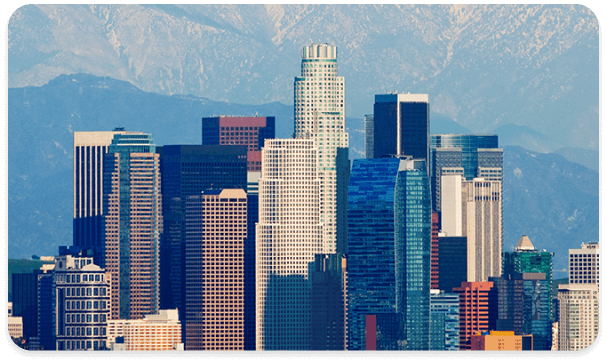
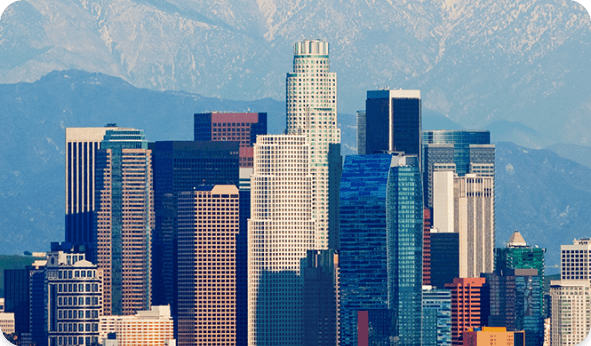
feat: Adicionar seção footer

diff --git a/src/main.css b/src/main.css
@@ -88,7 +88,7 @@ body {
     width: 24vw;
 }
 
-section {
+section, footer {
     padding: 0vw 4vw;
 }
 
@@ -150,9 +150,11 @@ section {
 
 .photos {
     width: 100%;
+    height: 50vw;
     display: flex;
     justify-content: space-between;
     padding-top: 3.333vw;
+    padding-bottom: 3.333vw;
 }
 
 .photos__main {
@@ -186,8 +188,15 @@ section {
     box-shadow: 0px 2px 10px rgba(0, 0, 0, 0.2);
 }
 
+.photos__photo-main {
+    height: 83%;
+}
+
 .photos__aside {
     width: 46.5%;
+    display: flex;
+    flex-direction: column;
+    justify-content: space-between;
 }
 
 .photos__aside .photos__photo {
@@ -235,6 +244,12 @@ section {
 .download__app {
     cursor: pointer;
     height: 2.5vw;
+    transition: transform 0.3s ease;
+}
+
+.download__app:hover {
+    transform: scale(1.08);
+    transition: transform 0.3s ease;
 }
 
 .download__app:first-child {
@@ -267,4 +282,199 @@ section {
     border: 1px solid #7D26C9;
     border-radius: 1.667vw;
     background-color: #DFDCD5;
+    transition: transform 0.3s ease;
+}
+
+.product__card:hover {
+    transform: scale(1.05);
+    transition: transform 0.3s ease;
+}
+
+.plan__container {
+    display: flex;
+    justify-content: space-between;
+    padding-top: 1.667vw;
+    padding-bottom: 3.333vw;
+}
+
+.plan__card {
+    width: 23vw;
+    padding: 1.25vw;
+    display: flex;
+    flex-direction: column;
+    justify-content: center;
+    align-items: center;
+    cursor: pointer;
+    border: 1.5px solid #DFBBFE;
+    border-radius: 0.833vw;
+    background-color: #FFF;
+    box-shadow: 0px 2px 10px rgba(0, 0, 0, 0.2);
+    transition: transform 0.3s ease;
+}
+
+.plan__card:hover {
+    transform: scale(1.05);
+    transition: transform 0.3s ease;
+}
+
+.plan__card-title {
+    font-size: 1.2vw;
+    align-self: flex-start;
+    margin-bottom: 0.417vw;
+}
+
+.plan__card-phase {
+    font-size: 1.1vw;
+    margin-bottom: 1.25vw;
+}
+
+.plan__card-button {
+    cursor: pointer;
+    padding: 0.7vw 2vw;
+    font-size: 0.84vw;
+    font-weight: 600;
+    border: none;
+    border-radius: 0.208vw;
+    background-color: #DFBBFE;
+}
+
+footer {
+    background-color: #2D2D2D;
+}
+
+.validate {
+    display: flex;
+    align-items: center;
+    justify-content: space-between;
+
+    padding-top:  3.333vw;
+    padding-bottom: 3.333vw;
+}
+
+.validate__illustration {
+    width: 20vw;
+    height: 18vw;
+}
+
+.validate__content {
+    width: 60%;
+    padding: 1.25vw;
+    border-radius: 1.25vw;
+    background-color: #EAE8E4;
+}
+
+.validate__title {
+    font-size: 2.083vw;
+    color: #2D2D2D;
+}
+
+.validate__text:first-child {
+    margin-top: 0.417vw;
+}
+
+.validate__text:last-child {
+    margin-top: 1.25vw;
+    margin-bottom: 1.667vw;
+}
+
+.validate__text {
+    color: #2D2D2D;
+    font-size: 1.042vw;
+}
+
+.validate__input-group {
+    display: flex;
+    justify-content: space-between;
+    gap: 0.833vw;
+    flex-wrap: wrap;
+    margin-bottom: 1.667vw;
+}
+
+.validate__input {
+    width: 25vw;
+    padding: 0.833vw;
+    outline: none;
+    border: none;
+    border-radius: 0.417vw;
+    background-color: #FFF;
+    font-size: 1vw;
+}
+
+.validate__input:placeholder {
+    font-size: 1vw;
+}
+
+.validate__security-check {
+    display: flex;
+    align-items: center;
+    justify-content: space-between;
+}
+
+.validate__security-text {
+    width: 30%;
+    color: #2D2D2D;
+    font-size: 1.25vw;
+    font-weight: 600;
+}
+
+.validate__math-operation {
+    width: 30%;
+    padding: 0.833vw 2.604vw;
+    border-radius: 0.417vw;
+    background-color: #DFDCD5;
+}
+
+.validate__math-input {
+    width: 40%;
+    color: #7D26C9;
+    font-weight: 600;
+    font-size: 1.042vw;
+    border: none;
+    outline: none;
+    background-color: transparent;
+    text-align: center;
+}
+
+.validate__math-input::placeholder {
+    color: #7D26C9;
+    font-size: 1.042vw;
+    font-weight: 600;
+}
+
+.validate__math-operator,
+.validate__math-equals {
+    font-weight: 600;
+}
+
+.validate__math-result {
+    width: 24%;
+    padding: 0.833vw;
+    outline: none;
+    border: none;
+    border-radius: 0.417vw;
+    background-color: #FFF;
+    font-size: 1vw;
+}
+
+.validate__math-result:placeholder {
+    font-size: 1vw;
+}
+
+.validate__button {
+    width: 100%;
+    display: flex;
+    align-items: center;
+    justify-content: center;
+    margin-top: 1.667vw;
+}
+
+.validate__button-send {
+    width: 15.5vw;
+    cursor: pointer;
+    font-weight: 600;
+    font-size: 0.84vw;
+    padding: 0.833vw 2.604vw;
+    border: none;
+    border-radius: 0.208vw;
+    background-color: #DFBBFE;
 }

diff --git a/src/index.html b/src/index.html
@@ -41,8 +41,11 @@
 
     <section class="photos">
         <main class="photos__main">
-            <h2 class="photos__title">Lorem ipsum dolor sit amet consectetur</h2>
-            <p class="photos__description">Lorem ipsum dolor sit amet consectetur. Semper orci adipiscing faucibus sit scelerisque quis commodo</p>
+            <div>
+                <h2 class="photos__title">Lorem ipsum dolor sit amet consectetur</h2>
+                <p class="photos__description">Lorem ipsum dolor sit amet consectetur. Semper orci adipiscing faucibus sit scelerisque quis commodo</p>
+            
+            </div>
             <img class="photos__photo photos__photo-main" src="./assets/images/city_5.png" alt="Front photo of a city">
         </main>
         <aside class="photos__aside">
@@ -70,6 +73,47 @@
             <!-- Injetado dinâmicamente -->
         </div>
     </section>
+
+    <section class="plan">
+        <div class="plan__container">
+            <!-- Injetado dinâmicamente -->
+        </div>
+    </section>
+
+    <footer>
+        <div class="validate">
+            <img class="validate__illustration" src="./assets/images/ilustration.png" alt="Ilustration">
+            <div class="validate__content">
+                <h1 class="validate__title">Lorem ipsum dolor sit amet consectetur</h1>
+                <div class="validate__description">
+                    <p class="validate__text">Lorem ipsum dolor sit amet consectetur. Semper orci adipiscing faucibus sit scelerisque</p>
+                    <p class="validate__text">Lorem ipsum dolor sit amet consectetur</p>
+                </div>
+                
+                <div class="validate__input-group">
+                    <input class="validate__input validate__input--required" type="text" placeholder="Categoria*" />
+                    <input class="validate__input validate__input--required" type="text" placeholder="Categoria*" />
+                    <input class="validate__input" type="text" placeholder="Categoria" />
+                    <input class="validate__input" type="text" placeholder="Categoria" />
+                </div>
+                
+                <div class="validate__security-check">
+                    <p class="validate__security-text">Verificação de segurança</p>
+                    <div class="validate__math-operation">
+                        <input class="validate__math-input" type="text" placeholder="0">
+                        <span class="validate__math-operator">+</span>
+                        <input class="validate__math-input" type="text" placeholder="0">
+                    </div>
+                    <span class="validate__math-equals">=</span>
+                    <input class="validate__math-result" type="text" placeholder="Result">
+                </div>
+
+                <div class="validate__button">
+                    <button class="validate__button-send">Lorem ipsum</button>
+                </div>
+            </div>
+        </div>
+    </footer>
 
     <script type="module" src="./main.js"></script>
 </body>

diff --git a/src/main.js b/src/main.js
@@ -1,28 +1,38 @@
 import { cities } from './cities.cards.js';
 import { products } from './products.list.js';
+import { plans } from './plans.cards.js';
 
 const cardsContainer = document.getElementById('cards-container');
-const productsContainer = document.querySelector('.product__container'); // Corrigido para querySelector
+const productsContainer = document.querySelector('.product__container');
+const plansContainer = document.querySelector('.plan__container');
 
-// Renderizando os cartões de cidades
 cities.forEach(city => {
     const card = document.createElement('div');
     card.className = 'card';
-
     card.innerHTML = `
         <div class="card__image"><img src="${city.image}" alt="${city.title}"></div>
         <h3 class="card__title">${city.title}</h3>
         <p class="card__description">${city.description}</p>
     `;
-
     cardsContainer.appendChild(card);
 });
 
-// Renderizando os produtos
 products.forEach(product => {
     const productDiv = document.createElement('div');
-
     productDiv.className = 'product__list';
     productDiv.innerHTML = `<div class="product__card">${product.text}</div>`;
     productsContainer.appendChild(productDiv);
+});
+
+plans.forEach(plan => {
+    const planDiv = document.createElement('div');
+    planDiv.className = 'plan__list';
+    planDiv.innerHTML = `
+        <div class="plan__card">
+            <h2 class="plan__card-title">${plan.title}</h2>
+            <p class="plan__card-phase">${plan.phase}</p>
+            <button class="plan__card-button">Lorem ipsum</button>                     
+        </div>
+    `;
+    plansContainer.appendChild(planDiv);
 });

diff --git a/src/plans.cards.js b/src/plans.cards.js
@@ -1,0 +1,17 @@
+export const plans = [
+    {
+        id: 0,
+        title: 'Lorem ipsum dolor sit amet',
+        phase: 'Lorem ipsum dolor sit amet consectetur. Semper orci adipiscing faucibus sit scelerisque quis commodo aenean viverra.',
+    },
+    {
+        id: 1,
+        title: 'Lorem ipsum dolor sit amet',
+        phase: 'Lorem ipsum dolor sit amet consectetur. Semper orci adipiscing faucibus sit scelerisque quis commodo aenean viverra.',
+    },
+    {
+        id: 2,
+        title: 'Lorem ipsum dolor sit amet',
+        phase: 'Lorem ipsum dolor sit amet consectetur. Semper orci adipiscing faucibus sit scelerisque quis commodo aenean viverra.',
+    },
+];
